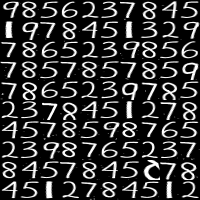
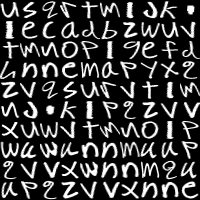
Added all character training data.

diff --git a/scripts/sight/handwriting_recognition.py b/scripts/sight/handwriting_recognition.py
@@ -15,6 +15,7 @@ from os.path import isfile, join
 
 import cv2
 import img_processing as Process
+import csv
 
 class HandwritingRecognition:
     def nothing(x):
@@ -49,34 +50,27 @@ class HandwritingRecognition:
         self.curr_data = ''
         self.found_word = False
 
-    def test_ocr(self):
-        data_img = cv2.imread(self.PARAMS_PATH + '/params/test_data.png')
-        gray = cv2.cvtColor(data_img,cv2.COLOR_BGR2GRAY)
-        cells = [np.hsplit(row,10) for row in np.vsplit(gray,10)]
-        deskewed = [map(Process.deskew,row) for row in cells]
-        # print deskewed[0][0]
-        hogdata = [map(Process.hog,row) for row in deskewed]
+    def test_ocr(self): # Compares our SVM-guessed set against the training data
+        labels = []
+        # Prepares the labels from the text file
+        with open(self.PARAMS_PATH + '/params/train_data.txt', 'r') as test_data:
+            open_reader = csv.reader(test_data)
+            for line in open_reader:
+                labels.append(ord(line[0]))
+
+        test_img = cv2.imread(self.PARAMS_PATH + '/params/test_data.png')
+        cells = [np.hsplit(row,10) for row in np.vsplit(test_img,10)]
+        hogdata = [map(Process.hog,row) for row in cells]
         test_data = np.float32(hogdata).reshape(-1,64)
-        labels = np.array([[9],[8],[5],[6],[2],[3],[7],[8],[4],[5],
-                           [1],[9],[7],[8],[4],[5],[1],[3],[2],[9],
-                           [7],[8],[6],[5],[2],[3],[9],[8],[5],[6],
-                           [7],[8],[5],[7],[8],[5],[7],[8],[5],[9],
-                           [7],[8],[6],[5],[2],[3],[9],[7],[8],[5],
-                           [2],[3],[7],[8],[5],[5],[1],[2],[7],[8],
-                           [4],[5],[7],[8],[5],[9],[8],[7],[6],[5],
-                           [2],[3],[9],[8],[7],[6],[5],[2],[3],[7],
-                           [8],[4],[5],[7],[8],[4],[5],[8],[7],[8],
-                           [4],[5],[1],[2],[7],[8],[4],[5],[1],[2]])
-        result = self.SVM.predict_all(test_data)
-        matches = result==labels
-        correct = np.count_nonzero(matches)
-        accuracy = correct*100.0/result.size
+        result = [int(res) for res in self.SVM.predict_all(test_data)]
+        # Compares predicted with actual results
+        matches = [i for i, j in zip(result, labels) if i == j]
+        accuracy = len(matches)
         print 'Accuracy: ', accuracy
 
     def img_callback(self, data):
         try:
-            # self.curr_frame = self.bridge.imgmsg_to_cv2(data, "bgr8")
-            self.curr_frame = cv2.imread('letters2.jpg')
+            self.curr_frame = self.bridge.imgmsg_to_cv2(data, "bgr8")
         except CvBridgeError as e:
             print(e)
 
@@ -123,29 +117,69 @@ class HandwritingRecognition:
             # Prepares input data for processing
             reshape_data = np.float32([char.HOG for char in test_data]).reshape(-1,64)
 
-            result = self.SVM.predict_all(reshape_data)
+            results = self.SVM.predict_all(reshape_data)
             res_data = []
-            for x in result:
+            for x in results:
                 res_data.append(int(x.item(0)))
             for idx,roi in enumerate(self.chars):
                 roi.result = res_data[idx]
                 # Formats results from SVM processing
+
+            # Resolves contours that could be an 'i' or a 'j'
+            # 0 = dots, 1 = lines
+            lines = [val for val in self.chars if chr(val.result) == '1']
+            dots = [res for res in self.chars if chr(res.result) == '0']
+            self.chars[:] = [val for val in self.chars if chr(val.result) != '1' \
+                and chr(val.result) != '0']
+            i_conts = self.resolve_letters(dots,lines)
+            if len(i_conts) > 0:
+                self.chars.extend(i_conts)
+
+            for roi in self.chars:
                 cv2.putText(self.frame,chr(int(roi.result)),(roi.x,roi.y+roi.h) \
                             ,cv2.FONT_HERSHEY_SIMPLEX, 4,(0,255,0))
             self.detect_new_word(test_data)
 
+    # Resolves ambiguous letters (i,l)
+    def resolve_letters(self,dot_contours,line_contours):
+        i_contours = []
+        l_contours = []
+        for dot in dot_contours:
+            for line in line_contours:
+                # If this is true, a letter 'i' has been found
+                if abs(line.x - dot.x) < 20 and line.y - (dot.y+dot.h) < 20:
+                    dot.result = ord('i')
+                    dot.h += line.h
+                    dot.y = line.y
+                    # Remove the dot-line pair from our lists
+                    line_contours[:] = [val for val in line_contours if val is not line]
+                    dot_contours[:] = [val for val in dot_contours if val is not dot]
+                    i_contours.append(dot) # Add the new character to the list
+        for line in line_contours: # All remaining lines must be 'l' chars
+            line.result = ord('l')
+        try:
+            line_contours.extend(i_contours)
+        except AttributeError:
+            pass
+        return line_contours
+
+
     def detect_new_word(self,char_list):
-        char_list.sort(key = lambda roi: roi.x)
-        word = ''.join([chr(item.result) for item in char_list])
-        if word == self.curr_data:
+        char_list.sort(key = lambda roi: roi.x) # Sort characters by x pos
+        word = ''.join([chr(item.result) for item in char_list]) # Form a word
+        if word == self.curr_data: # If the current and prev words match
+            # The word must remain consistent for 2 seconds
             if time.time() - self.last_time > 2 and self.found_word == False:
+                # We found a new word
                 self.last_word = word
                 self.found_word = True
                 self.pub.publish(word)
-        else:
+                return word
+        else: # A new word is found, reset the timer
             self.last_time = time.time()
             self.curr_data = word
             self.found_word = False
+            return None
 
 
 
@@ -214,11 +248,7 @@ class HandwritingRecognition:
             e1 = cv2.getTickCount()
             self.update_frame()
             # out_image = Process.get_paper_region(self.frame)
-            x = 255
-            if (cv2.getTrackbarPos('X','image') % 2 == 1):
-                x = cv2.getTrackbarPos('X','image')
-            y = cv2.getTrackbarPos('Y','image')
-            self.chars = Process.get_text_roi(self.frame,x,y)
+            self.chars = Process.get_text_roi(self.frame)
             self.process_digits(self.chars)
             #self.find_words(self.chars)
             self.output_image()

diff --git a/scripts/sight/build_test_data.py b/scripts/sight/build_test_data.py
@@ -18,12 +18,13 @@ class BuildData:
 
     def __init__(self):
         cv2.setUseOptimized(True)
+        self.init_character = 'test_data'
         self.img = cv2.imread('test_imgs/digits.png')
         rospy.init_node('handwriting_recognition', anonymous=True)
         self.bridge = CvBridge()
         rospy.Subscriber("usb_cam/image_raw", Image, self.img_callback)
         rospack = rospkg.RosPack()
-        PACKAGE_PATH = rospack.get_path("edwin")
+        self.PACKAGE_PATH = rospack.get_path("edwin")
         self.detect = True
         cv2.namedWindow('image')
         cv2.setMouseCallback('image',self.fill_test_data)
@@ -31,8 +32,7 @@ class BuildData:
         self.test_filled = 0
 
     def fill_test_data(self, event, x, y, flags, param):
-        init_character = 'c'
-        path = 'char_data/'
+        path = self.PACKAGE_PATH + '/params/char_data/'
         if event == cv2.EVENT_LBUTTONDOWN:
             for contour in self.numbers:
                 if self.test_filled < 100:
@@ -41,11 +41,12 @@ class BuildData:
                     self.test_data[y_index:y_index+20,x_index:x_index+20] = contour.img
                     self.test_filled += 1
         elif event == cv2.EVENT_RBUTTONDOWN:
-            write_path = path + init_character + '.png'
+            write_path = path + self.init_character + '.png'
             cv2.imwrite(write_path,self.test_data)
-            init_chracter += 1
+            print('Image saved: ' + write_path)
             self.test_filled = 0
             self.test_data[:,:] = 0
+            self.init_character = chr(ord(self.init_character)+1)
 
     def img_callback(self, data):
         try:

diff --git a/scripts/sight/img_processing.py b/scripts/sight/img_processing.py
@@ -2,7 +2,7 @@ import cv2
 import numpy as np
 from Character import Character
 
-def get_text_roi(frame, x, y):
+def get_text_roi(frame):
     kernel_sharpen = np.array([[-1,-1,-1],[-1,9,-1],[-1,-1,-1]])
     kernel_sharpen_3 = np.array([[-1,-1,-1,-1,-1],
                              [-1,2,2,2,-1],
@@ -20,7 +20,7 @@ def get_text_roi(frame, x, y):
 
     # Adaptive threshold to find numbers on paper
     thresh = cv2.adaptiveThreshold(frame_gray,255,
-        cv2.ADAPTIVE_THRESH_GAUSSIAN_C, cv2.THRESH_BINARY_INV,x,y)
+        cv2.ADAPTIVE_THRESH_GAUSSIAN_C, cv2.THRESH_BINARY_INV,255,7)
     thresh = cv2.morphologyEx(thresh,cv2.MORPH_OPEN,kernel,iterations=2)
     # cv2.imshow('thresh',thresh)
 
